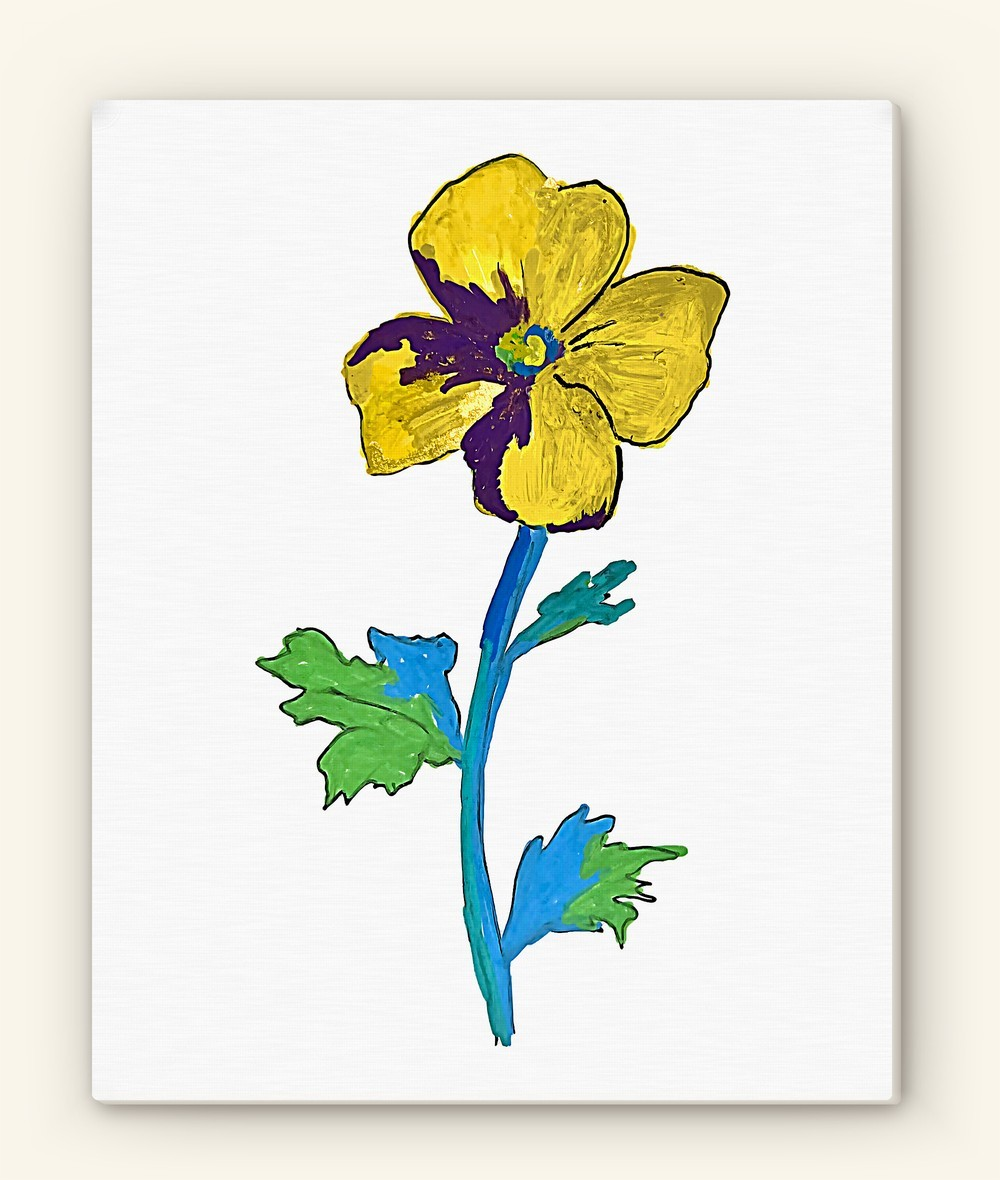
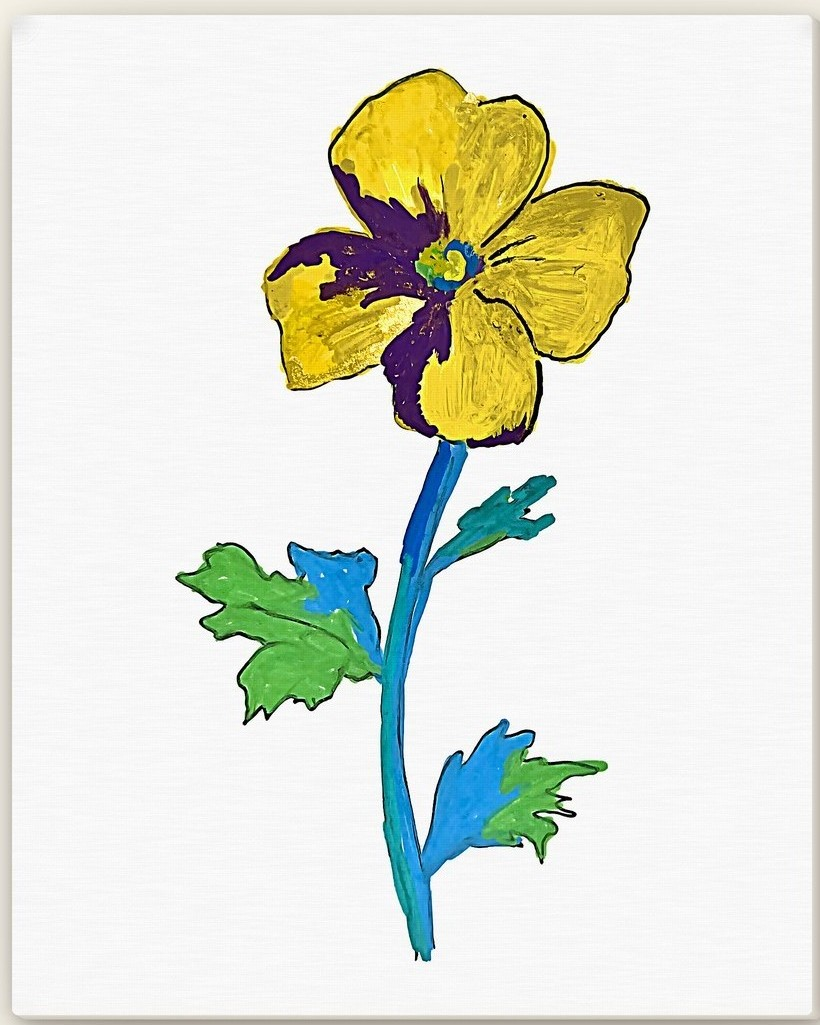
Bigger canvas thumbnails, tighter spacing, matching Commissions layout, ships in 6 weeks

diff --git a/commissions.html b/commissions.html
@@ -101,9 +101,38 @@ h1{white-space:nowrap;font-size:clamp(22px,6.4vw,34px)}
 .enq:hover{color:var(--gold);border-color:var(--gold)}
 .lb img{border:0;box-shadow:none}
 .card img{aspect-ratio:4/5}
-.price{font-family:"Cormorant SC",serif;font-weight:500;font-size:17px;letter-spacing:2.5px;color:var(--ink);margin:2px 0 0}
+.price{font-family:"Cormorant SC",serif;font-weight:500;font-size:16px;letter-spacing:2px;color:var(--ink)}.intro .terms{font-size:14px;color:var(--soft)}
 .terms.top{max-width:600px;margin:2px auto 0;font-size:13.5px;line-height:1.35}
-@media(max-width:899px){.wide h2{display:none}.hint{margin-top:2px}}
+
+
+/*layout-sync: identical on index.html and commissions.html*/
+.orn{margin:3px 0 4px}
+.intro{margin:0;height:44px;line-height:22px;overflow:hidden}
+.intro .sep{display:none}
+.links{margin-top:8px}.icons{margin-top:8px}
+.sec{margin-top:12px}.hint{margin:2px 0 6px}
+.lib{gap:5px;padding-bottom:6px}
+.card span{margin-top:6px}
+.card img{aspect-ratio:4/5;width:auto}
+footer{margin-top:6px;padding-top:5px}
+footer .est,footer .orig{display:inline}footer .orig:before{content:"·";margin:0 8px;color:var(--gold);font-style:normal}
+h1{line-height:34px}
+.page{padding-bottom:4px}
+@media(min-width:900px){
+.intro{height:24px;line-height:24px}.intro .sep{display:inline}
+.links{margin-top:10px}.icons{margin-top:10px}
+.sec{margin-top:16px}
+.lib{gap:6px}
+h1{line-height:38px}
+footer .orig:before{content:none}
+.page{max-width:min(1320px,calc(100vw - 150px))}
+.banner{height:clamp(56px,7vh,100px)}
+.avatar{width:84px;height:84px;margin-top:-42px}
+.eyebrow{margin-top:4px}
+.sec h2,.sec .hint{display:inline-block;vertical-align:baseline;margin:0 0 8px}
+.sec .hint:before{content:"·";margin:0 12px;color:var(--gold);font-style:normal}
+h1{line-height:36px}
+}
 </style>
 </head>
 <body>
@@ -113,8 +142,7 @@ h1{white-space:nowrap;font-size:clamp(22px,6.4vw,34px)}
 <p class="eyebrow">Tetiana Parker</p>
 <h1>The Wildflower Commissions</h1>
 <div class="orn">&#10086;</div>
-<p class="price">60 &times; 75 in canvas &middot; $6,800</p>
-<p class="terms top">Paid in full &middot; about 4 weeks &middot; 15% trade discount<br class="mbr"> &middot; shipping quoted per project</p>
+<p class="intro"><span class="price">60 &times; 75 in canvas &middot; $6,800 + shipping</span><span class="sep"> &middot; </span><br class="mbr"><span class="terms">Paid in full &middot; ships in 6 weeks &middot; 15% trade discount</span></p>
 
 
 <nav class="links"><a href="/">Home</a><i></i><a href="mailto:hello@tetianaparker.com?subject=Commission%20enquiry">Enquire</a></nav>
@@ -157,8 +185,8 @@ h1{white-space:nowrap;font-size:clamp(22px,6.4vw,34px)}
 <div class="lb" id="lb" aria-hidden="true"><button class="x" aria-label="Close">&times;</button><button class="pv" aria-label="Previous">&lsaquo;</button><img alt=""><p></p><button class="nx" aria-label="Next">&rsaquo;</button></div>
 <script>
 function fit(){var r=document.documentElement,h=300;r.style.setProperty('--ch',h+'px');
-var pg=document.querySelector('.page'),cs=getComputedStyle(document.body),over=pg.offsetHeight+parseFloat(cs.marginTop)+parseFloat(cs.marginBottom)-innerHeight;h=Math.round(Math.min(innerWidth<900?400:520,Math.max(innerWidth<900?150:150,h-over-2)));r.style.setProperty('--ch',h+'px')}
-fit();addEventListener('resize',fit);addEventListener('load',fit);if(document.fonts)document.fonts.ready.then(fit);
+var pg=document.querySelector('.page'),cs=getComputedStyle(document.body),over=pg.offsetHeight+parseFloat(cs.marginTop)+parseFloat(cs.marginBottom)-innerHeight;h=Math.round(Math.min(innerWidth<900?560:720,Math.max(innerWidth<900?150:150,h-over-1)));r.style.setProperty('--ch',h+'px')}
+fit();addEventListener('resize',fit);if(window.visualViewport)visualViewport.addEventListener('resize',fit);addEventListener('load',fit);if(document.fonts)document.fonts.ready.then(fit);
 document.querySelectorAll('.libwrap').forEach(function(w){
 var l=w.querySelector('.lib');
 w.querySelector('.arr.l').onclick=function(){l.scrollBy({left:-l.clientWidth*.75,behavior:'smooth'})};

diff --git a/index.html b/index.html
@@ -93,6 +93,35 @@ footer p+p:before{content:"·";margin-right:14px;color:var(--gold)}
 .card img.cv{padding:0;background:none;border:0;box-shadow:none;aspect-ratio:auto;width:auto}
 .card:hover img.cv{box-shadow:none}
 .lb img{border:0;box-shadow:none}
+
+/*layout-sync: identical on index.html and commissions.html*/
+.orn{margin:3px 0 4px}
+.intro{margin:0;height:44px;line-height:22px;overflow:hidden}
+.intro .sep{display:none}
+.links{margin-top:8px}.icons{margin-top:8px}
+.sec{margin-top:12px}.hint{margin:2px 0 6px}
+.lib{gap:5px;padding-bottom:6px}
+.card span{margin-top:6px}
+.card img{aspect-ratio:4/5;width:auto}
+footer{margin-top:6px;padding-top:5px}
+footer .est,footer .orig{display:inline}footer .orig:before{content:"·";margin:0 8px;color:var(--gold);font-style:normal}
+h1{line-height:34px}
+.page{padding-bottom:4px}
+@media(min-width:900px){
+.intro{height:24px;line-height:24px}.intro .sep{display:inline}
+.links{margin-top:10px}.icons{margin-top:10px}
+.sec{margin-top:16px}
+.lib{gap:6px}
+h1{line-height:38px}
+footer .orig:before{content:none}
+.page{max-width:min(1320px,calc(100vw - 150px))}
+.banner{height:clamp(56px,7vh,100px)}
+.avatar{width:84px;height:84px;margin-top:-42px}
+.eyebrow{margin-top:4px}
+.sec h2,.sec .hint{display:inline-block;vertical-align:baseline;margin:0 0 8px}
+.sec .hint:before{content:"·";margin:0 12px;color:var(--gold);font-style:normal}
+h1{line-height:36px}
+}
 </style>
 </head>
 <body>
@@ -102,7 +131,7 @@ footer p+p:before{content:"·";margin-right:14px;color:var(--gold)}
 <p class="eyebrow">Botanical Originals</p>
 <h1>Tetiana Parker</h1>
 <div class="orn">&#10086;</div>
-<p class="lede">Flowers hand-painted with Posca markers,<br class="mbr"> each one an original, painted to order.</p>
+<p class="lede intro">Flowers hand-painted with Posca markers,<br class="mbr"> each one an original, painted to order.</p>
 
 
 <nav class="links"><a href="https://tetianaparker.etsy.com" target="_blank" rel="noopener">Shop</a><i></i><a href="/commissions">Commissions</a><i></i><a href="mailto:hello@tetianaparker.com">Contact</a></nav>
@@ -145,8 +174,8 @@ footer p+p:before{content:"·";margin-right:14px;color:var(--gold)}
 <div class="lb" id="lb" aria-hidden="true"><button class="x" aria-label="Close">&times;</button><button class="pv" aria-label="Previous">&lsaquo;</button><img alt=""><p></p><button class="nx" aria-label="Next">&rsaquo;</button></div>
 <script>
 function fit(){var r=document.documentElement,h=300;r.style.setProperty('--ch',h+'px');
-var pg=document.querySelector('.page'),cs=getComputedStyle(document.body),over=pg.offsetHeight+parseFloat(cs.marginTop)+parseFloat(cs.marginBottom)-innerHeight;h=Math.round(Math.min(innerWidth<900?400:520,Math.max(innerWidth<900?150:150,h-over-2)));r.style.setProperty('--ch',h+'px')}
-fit();addEventListener('resize',fit);addEventListener('load',fit);if(document.fonts)document.fonts.ready.then(fit);
+var pg=document.querySelector('.page'),cs=getComputedStyle(document.body),over=pg.offsetHeight+parseFloat(cs.marginTop)+parseFloat(cs.marginBottom)-innerHeight;h=Math.round(Math.min(innerWidth<900?560:720,Math.max(innerWidth<900?150:150,h-over-1)));r.style.setProperty('--ch',h+'px')}
+fit();addEventListener('resize',fit);if(window.visualViewport)visualViewport.addEventListener('resize',fit);addEventListener('load',fit);if(document.fonts)document.fonts.ready.then(fit);
 document.querySelectorAll('.libwrap').forEach(function(w){
 var l=w.querySelector('.lib');
 w.querySelector('.arr.l').onclick=function(){l.scrollBy({left:-l.clientWidth*.75,behavior:'smooth'})};
